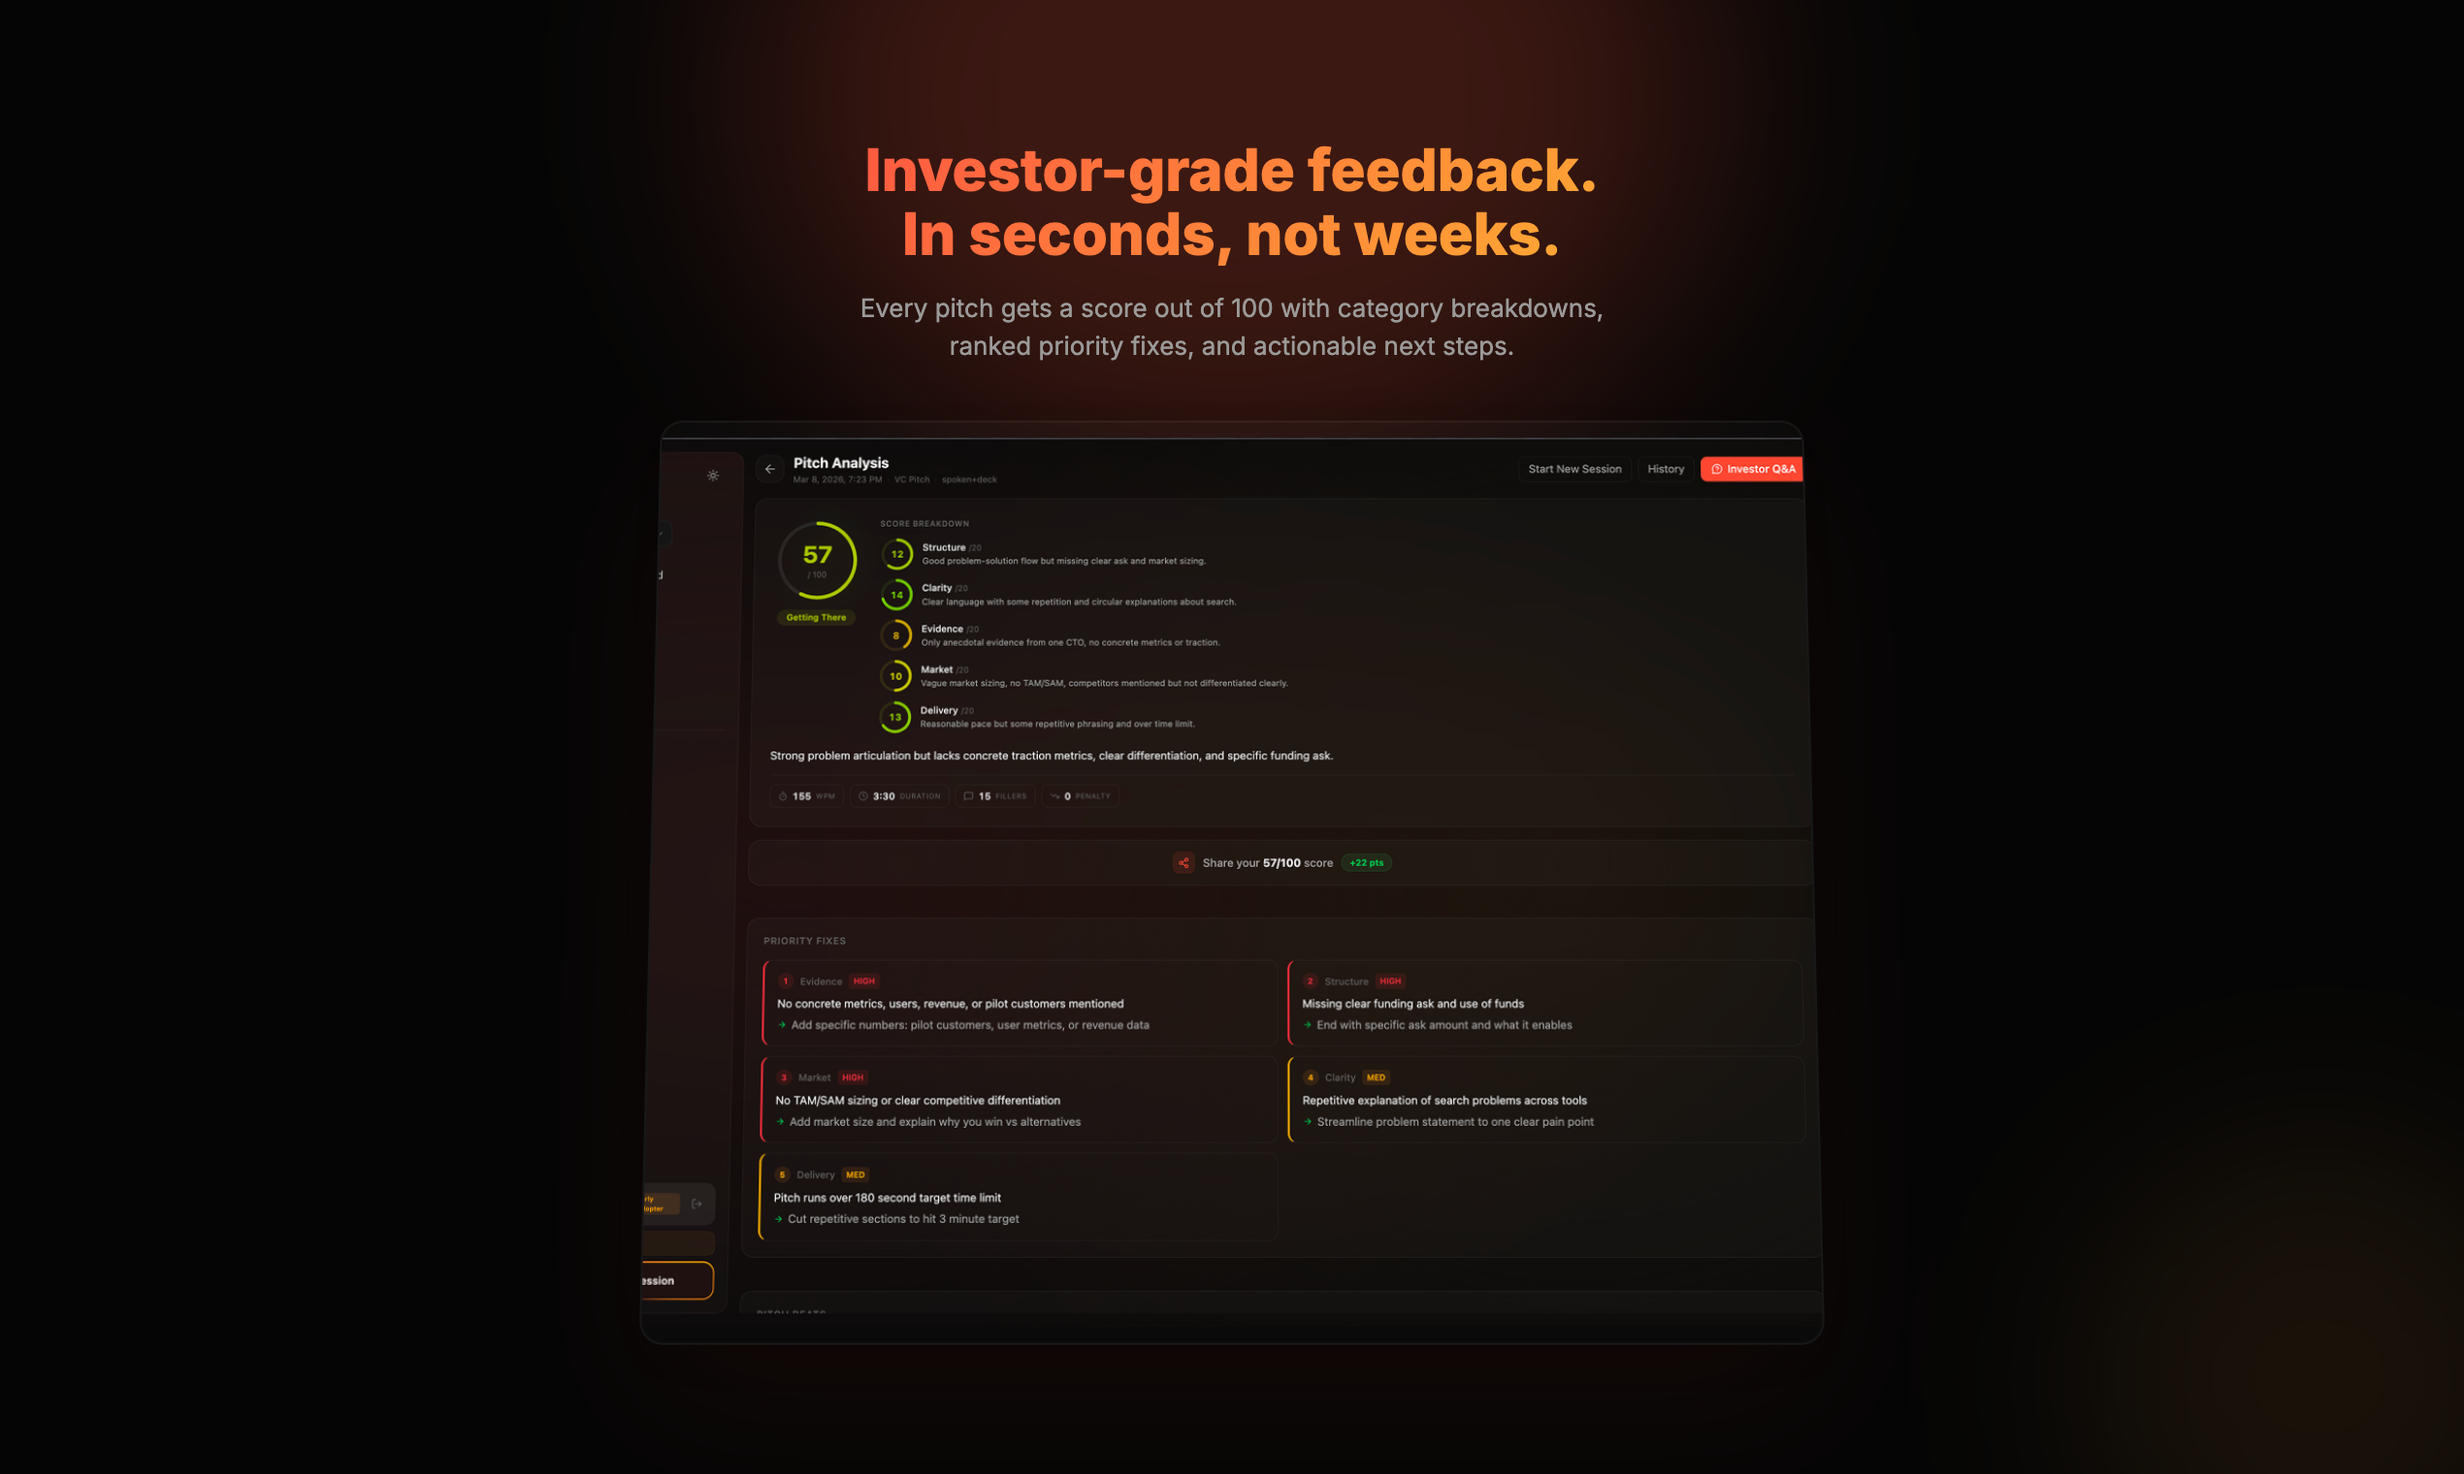
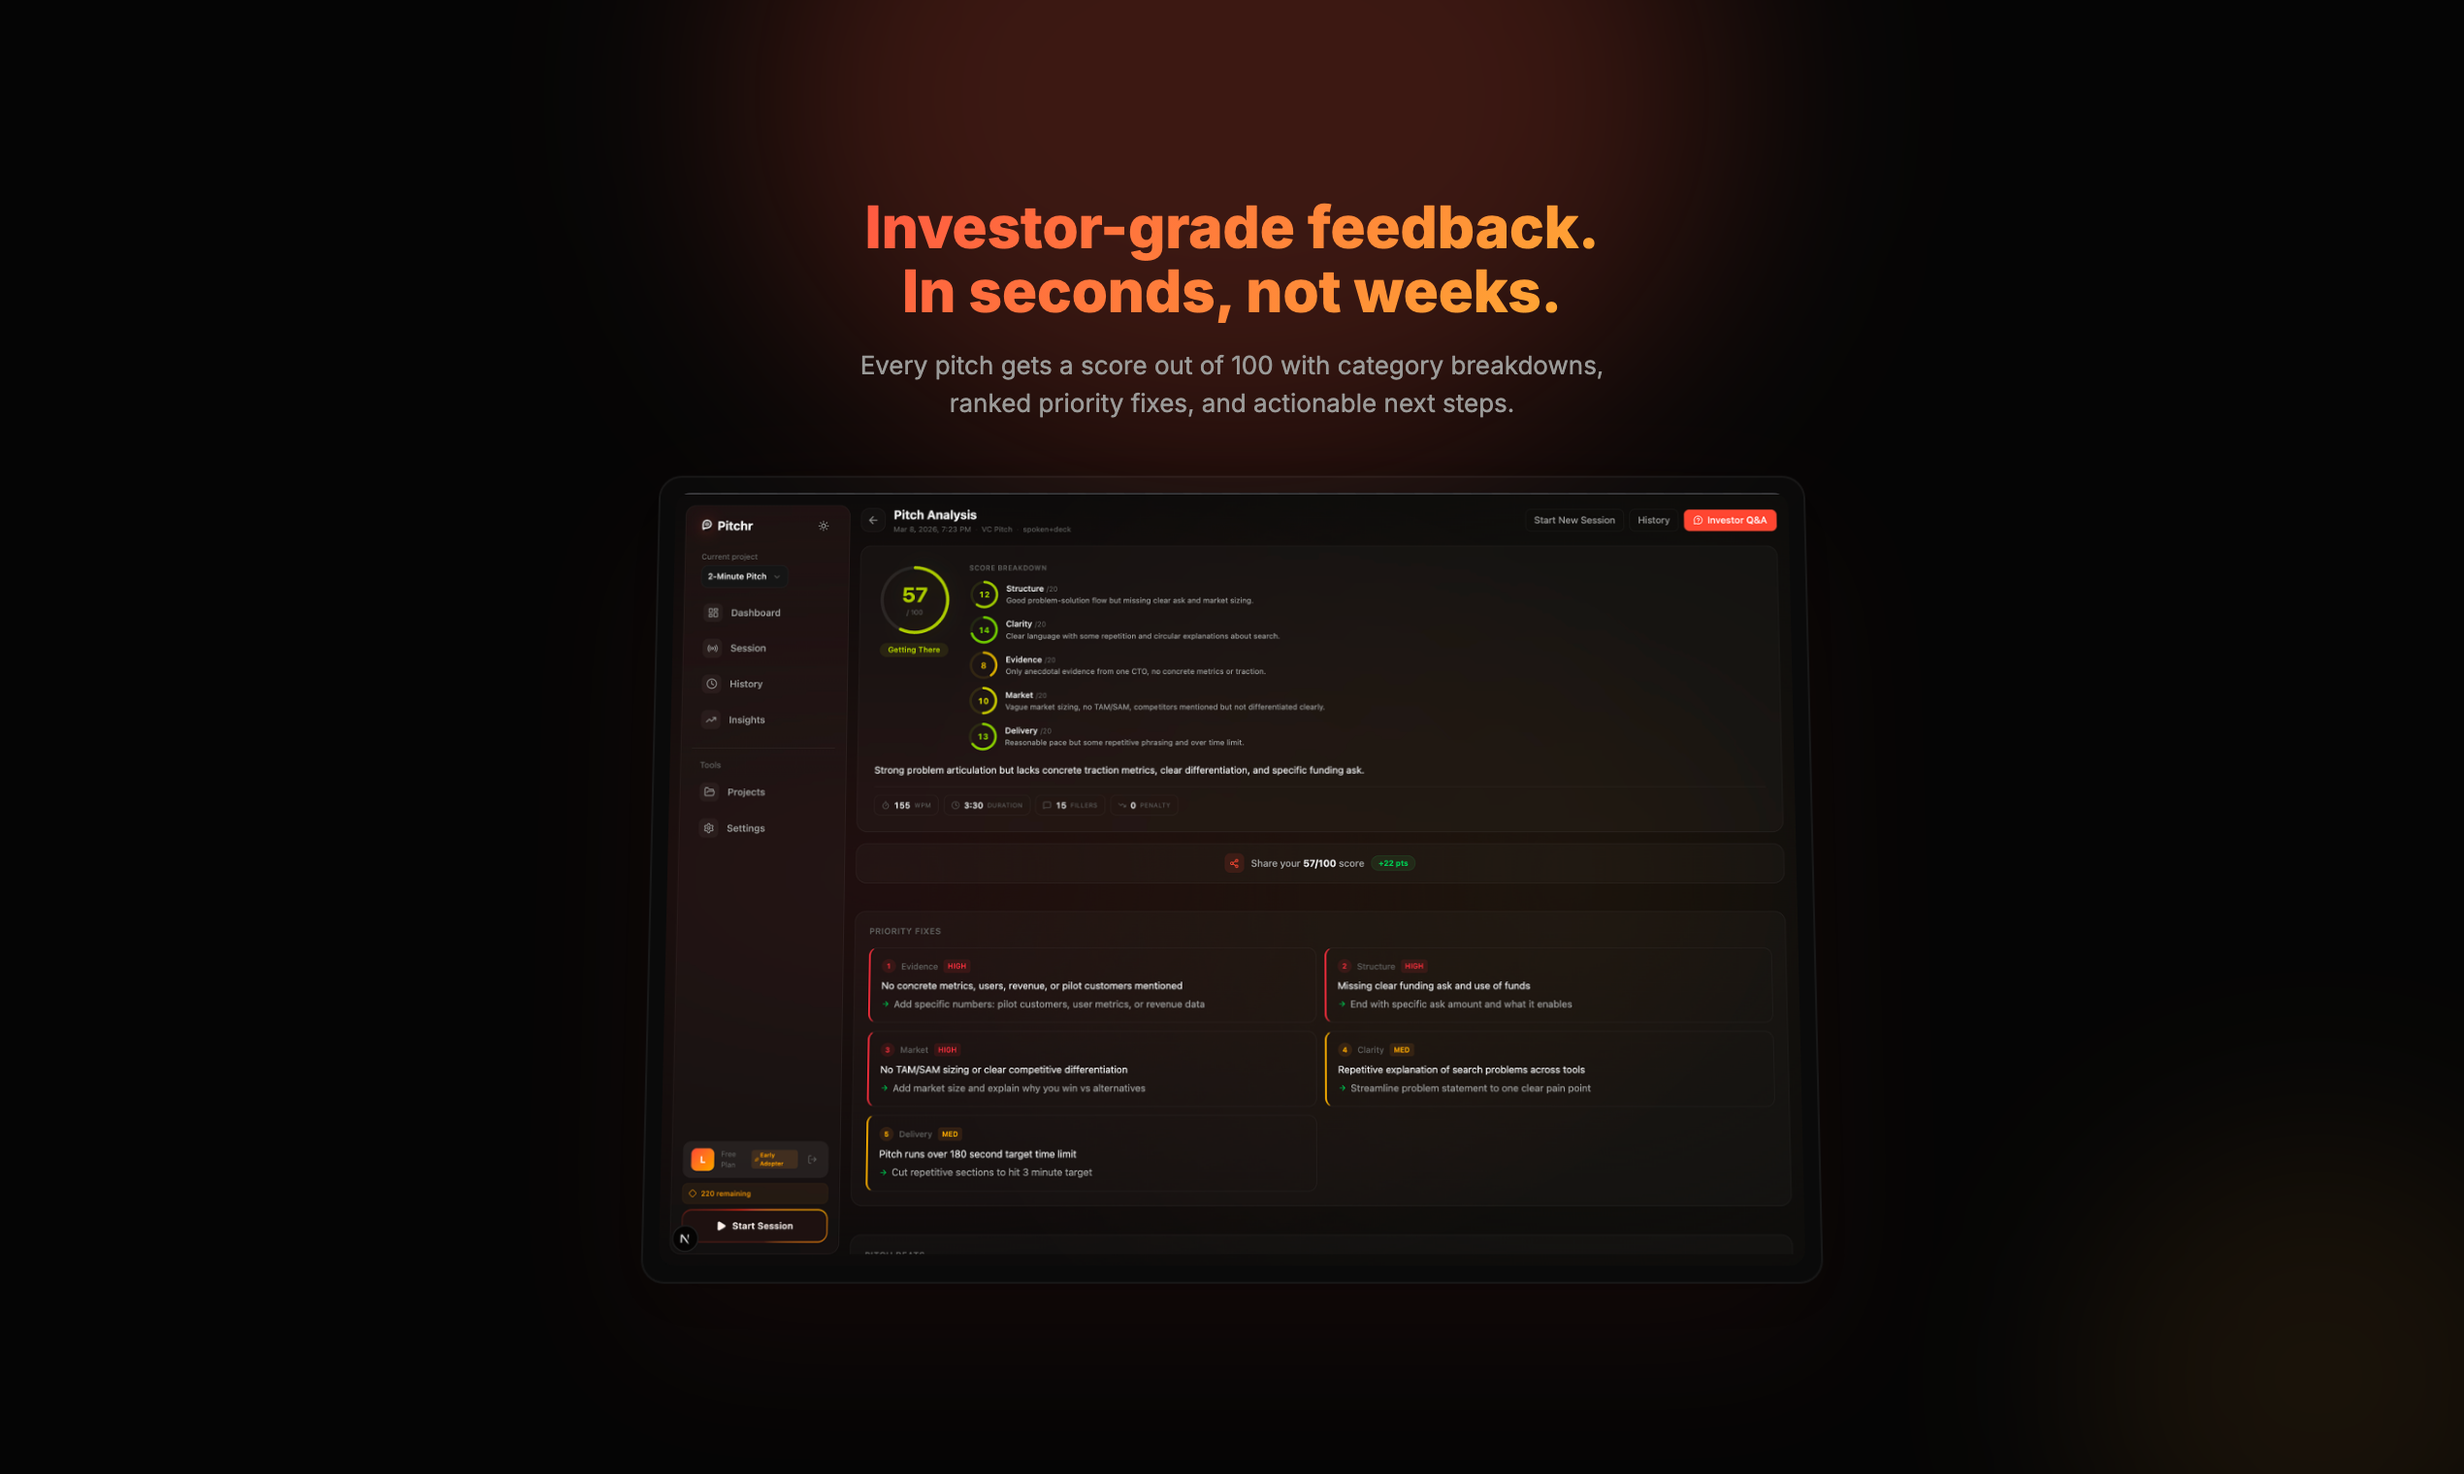
fix: show full sidebar in screenshots, remove em dashes

diff --git a/branding/product-hunt/slides/01-hero.html b/branding/product-hunt/slides/01-hero.html
@@ -40,8 +40,7 @@
       overflow: hidden;
     }
     .screenshot-frame img {
-      width: 115%;
-      margin-left: -12%;
+      width: 100%;
       border-radius: 16px;
       display: block;
     }
@@ -84,7 +83,7 @@
     <h1 class="headline" style="font-size: 72px; text-align: center; margin-bottom: 24px;">Your pitch coach<br>that never sleeps.</h1>
 
     <!-- Subtitle -->
-    <p class="subtitle" style="font-size: 26px; text-align: center; max-width: 800px; margin-bottom: 32px;">Record your pitch. Get an investor-grade score, ranked fixes, and a rewritten script — in seconds.</p>
+    <p class="subtitle" style="font-size: 26px; text-align: center; max-width: 800px; margin-bottom: 32px;">Record your pitch. Get an investor-grade score, ranked fixes, and a rewritten script in seconds.</p>
 
     <!-- Tags row -->
     <div style="display: flex; gap: 16px; margin-bottom: 48px;">

diff --git a/branding/product-hunt/slides/02-session.html b/branding/product-hunt/slides/02-session.html
@@ -40,8 +40,7 @@
       overflow: hidden;
     }
     .screenshot-frame img {
-      width: 115%;
-      margin-left: -12%;
+      width: 100%;
       border-radius: 16px;
       display: block;
     }

diff --git a/branding/product-hunt/slides/03-analysis.html b/branding/product-hunt/slides/03-analysis.html
@@ -40,8 +40,7 @@
       overflow: hidden;
     }
     .screenshot-frame img {
-      width: 115%;
-      margin-left: -12%;
+      width: 100%;
       border-radius: 16px;
       display: block;
     }

diff --git a/branding/product-hunt/slides/04-investor-qa.html b/branding/product-hunt/slides/04-investor-qa.html
@@ -40,8 +40,7 @@
       overflow: hidden;
     }
     .screenshot-frame img {
-      width: 115%;
-      margin-left: -12%;
+      width: 100%;
       border-radius: 16px;
       display: block;
     }

diff --git a/branding/product-hunt/slides/05-progress.html b/branding/product-hunt/slides/05-progress.html
@@ -40,8 +40,7 @@
       overflow: hidden;
     }
     .screenshot-frame img {
-      width: 115%;
-      margin-left: -12%;
+      width: 100%;
       border-radius: 16px;
       display: block;
     }
